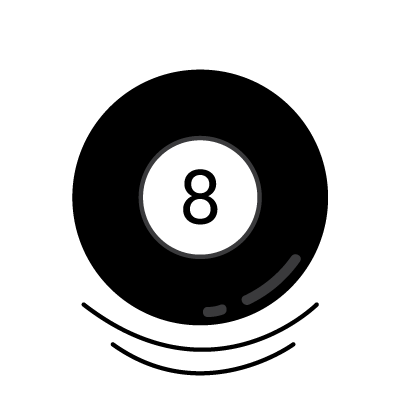
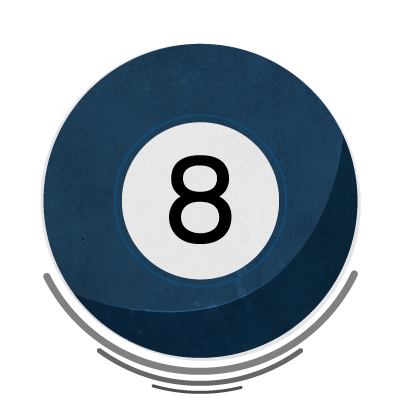
Add new ball images, bg image, and styling

diff --git a/src/components/Magic8Ball.vue b/src/components/Magic8Ball.vue
@@ -1,8 +1,10 @@
 <template>
   <div class="magic8ball">
-    <h1>Magic 8 Ball</h1>
-    <img class="ball-image" :src="require('@/assets/' + image)" />
-    <p>{{ response }}</p>
+    <h1>MAGIC <span>8</span> BALL</h1>
+    <div class="ball-image-container">
+      <img class="ball-image" :src="require('@/assets/' + image)" />
+      <div class="ball-text">{{ response }}</div>
+    </div>
     <input
       id="questionbox"
       type="text"
@@ -34,7 +36,7 @@ export default {
       document.getElementById("questionbox").disabled = true;
       this.shake8ball();
       setTimeout(() => {
-        this.image = "magic-8-ball-tri.png";
+        this.image = "magic-8-ball-answer.png";
         this.isShaking = false;
         document.getElementById("questionbox").disabled = false;
         this.response = generateResponse();
@@ -55,9 +57,33 @@ export default {
 </script>
 
 <style>
+h1 {
+  color: white;
+  font-size: 50pt;
+}
+
+h1 span {
+  color: #075e93;
+}
+
 .ball-image {
   width: 400px;
   height: 400px;
+}
+
+.ball-image-container {
+  padding-top: 40px;
+  padding-bottom: 40px;
+  position: relative;
+  text-align: center;
+  color: white;
+}
+
+.ball-text {
+  position: absolute;
+  top: 50%;
+  left: 50%;
+  transform: translate(-50%, -50%);
 }
 
 .magic8ball {
@@ -68,6 +94,7 @@ export default {
 }
 
 .questionbox {
+  margin-top: 30px;
   margin-block-end: 1em;
   margin-inline-start: 0px;
   margin-inline-end: 0px;

diff --git a/src/App.vue b/src/App.vue
@@ -1,28 +1,45 @@
 <template>
-  <!-- <img alt="Vue logo" src="./assets/logo.png" />
-  <HelloWorld msg="Welcome to Your Vue.js App" /> -->
-  <Magic8Ball />
+  <div class="main-container">
+    <Magic8Ball />
+  </div>
 </template>
 
 <script>
-// import HelloWorld from "./components/HelloWorld.vue";
 import Magic8Ball from "./components/Magic8Ball.vue";
 
 export default {
   name: "App",
   components: {
-    // HelloWorld,
     Magic8Ball,
   },
 };
 </script>
 
 <style>
+@import url("https://fonts.googleapis.com/css2?family=Roboto:wght@300&display=swap");
+* {
+  margin: 0px;
+  padding: 0px;
+  box-sizing: border-box;
+}
+
+html {
+  width: 100%;
+  height: 100%;
+  background: url("@/assets/bg.png");
+  background-repeat: no-repeat;
+  background-position: center center;
+  background-attachment: fixed;
+  background-size: cover;
+}
+
+.main-container {
+  min-height: 100%;
+}
+
 #app {
-  font-family: Avenir, Helvetica, Arial, sans-serif;
-  -webkit-font-smoothing: antialiased;
-  -moz-osx-font-smoothing: grayscale;
+  font-family: Roboto, sans-serif;
+  padding: 100px;
   text-align: center;
-  margin-top: 60px;
 }
 </style>

diff --git a/public/index.html b/public/index.html
@@ -4,7 +4,6 @@
         <meta charset="utf-8" />
         <meta http-equiv="X-UA-Compatible" content="IE=edge" />
         <meta name="viewport" content="width=device-width,initial-scale=1.0" />
-        <link rel="icon" href="<%= BASE_URL %>favicon.ico" />
         <title><%= htmlWebpackPlugin.options.title %></title>
     </head>
     <body>

diff --git a/vue.config.js b/vue.config.js
@@ -1,5 +1,5 @@
 const { defineConfig } = require("@vue/cli-service");
 module.exports = defineConfig({
-  publicPath: '/project name/',
+  publicPath: "/project name/",
   transpileDependencies: true,
 });
